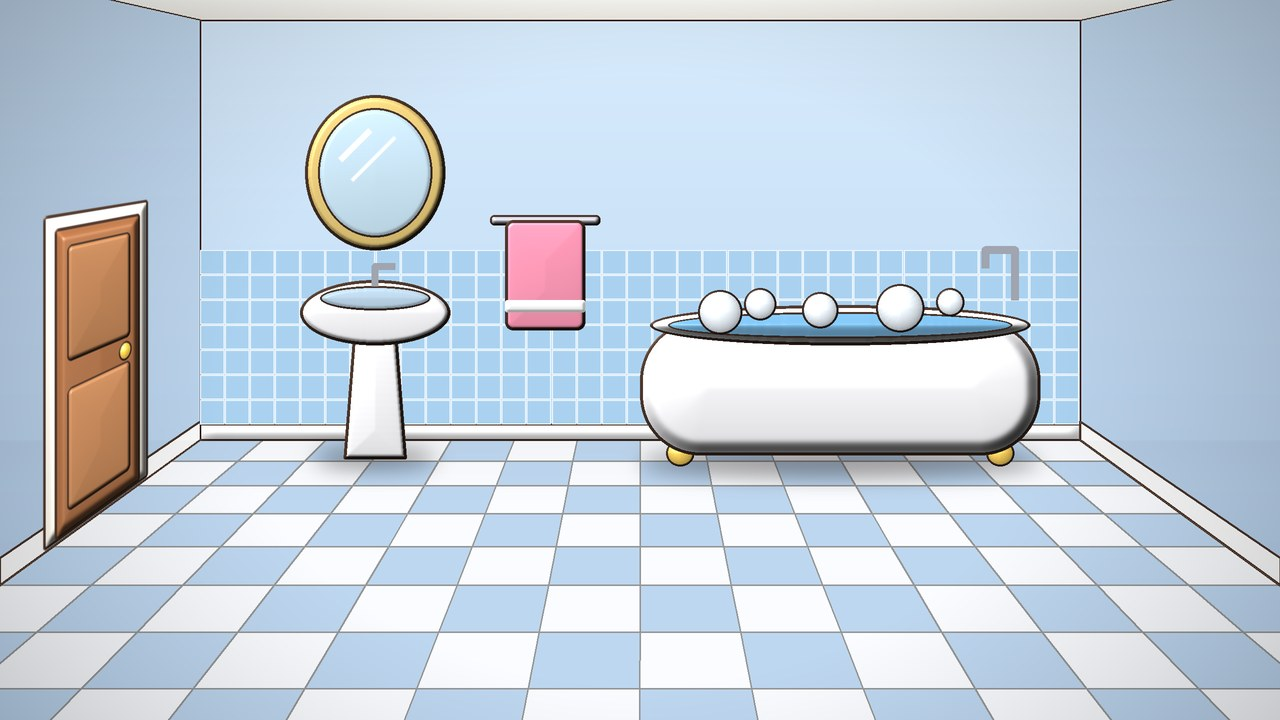
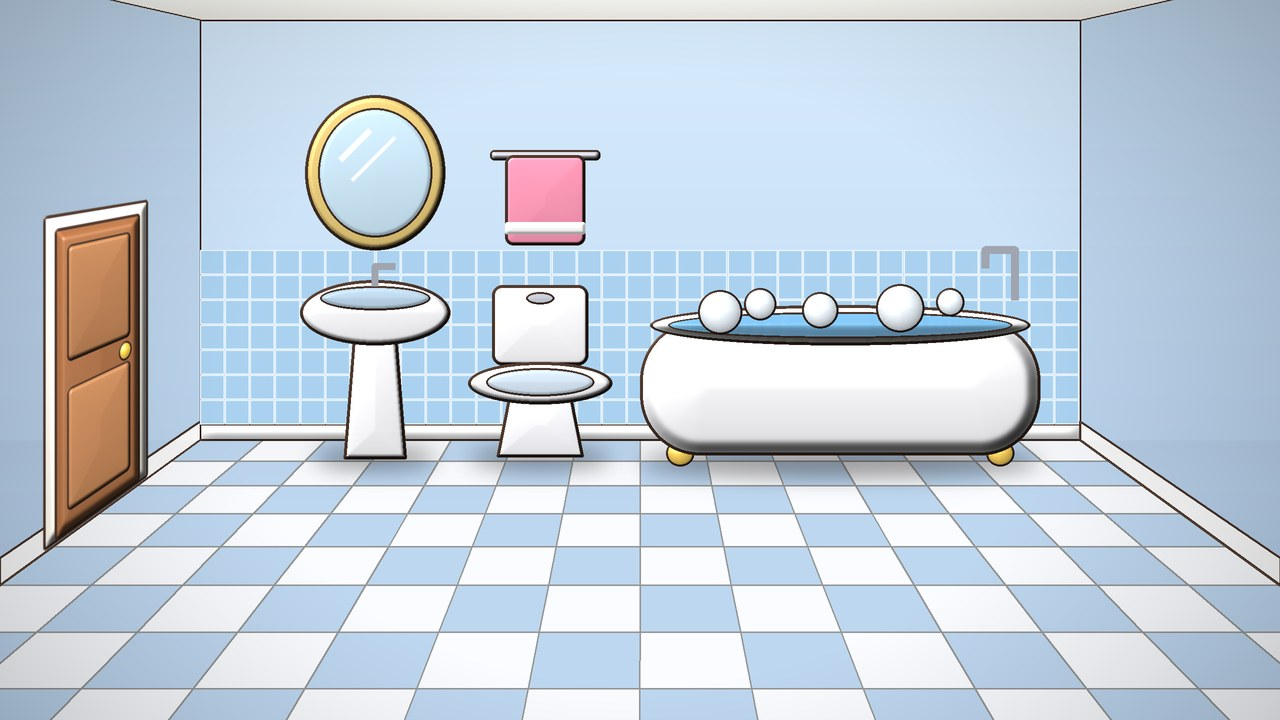
Banyoya klozet: oturunca piksel sansür, kalkınca sifon
Karakter klozete bırakılınca oturur. Beli renkleri değişen piksel karelerle
örtülür. Sürükleyip kaldırınca sifon çekilir; boş klozete dokununca da çekilir.
Havlu askısı klozete yer açmak için yukarı alındı.

Claude-Session: https://claude.ai/code/session_01PHNWoZMbn2UdDSkHwUUY5E

Changed region(s): [[0.3438, 0.1833, 0.5, 0.6722]]

diff --git a/js/oyun.js b/js/oyun.js
@@ -73,6 +73,7 @@ k.scene("mekan", (mekanId) => {
   });
   const kuvetler = noktalar.filter((n) => n.tur === "kuvet");
   const kuvetBul = (p) => kuvetler.find((n) => p.x > n.x && p.x < n.x + n.w && p.y > n.y && p.y < n.y + n.h);
+  const klozetBul = (p) => noktalar.find((n) => n.tur === "klozet" && p.x > n.x && p.x < n.x + n.w && p.y > n.y && p.y < n.y + n.h);
   const dolaplar = noktalar.filter((n) => n.tur === "dolap");
   function dolapAcKapa(n) {
     const ac = n.acik.hidden;
@@ -139,6 +140,13 @@ k.scene("mekan", (mekanId) => {
     else if (!o.kr && kv) o.yuzuyor = kv;
     else delete o.v.kuvet;
   });
+  // Kayıtta klozette oturanı yerine koy.
+  varliklar.forEach((o) => {
+    if (!o.v.klozet) return;
+    const n = noktalar.find((n) => n.tur === "klozet" && !n.dolu);
+    if (o.kr && n) klozeteOtur(o, n, false);
+    else delete o.v.klozet;
+  });
   // Kayıtta elde duran eşyaları sahibine bağla.
   varliklar.forEach((o) => {
     if (!o.v.elde) return;
@@ -186,6 +194,27 @@ k.scene("mekan", (mekanId) => {
     delete o.v.kuvet;
     o.zemY = z.ust; o.v.x = p.x; o.h = Math.max(0, o.zemY - p.y);
   }
+  // --- Klozet ---
+  function klozeteOtur(o, n, kayit = true) {
+    n.dolu = o; o.klozet = n; o.v.klozet = true;
+    o.hedef = null; o.vy = 0; o.zemY = z.ust; o.v.x = n.oturma.x; o.v.y = z.ust;
+    o.sansur = G.sansur();
+    if (kayit) kaydet();
+  }
+  function klozettenKalk(o) {
+    const n = o.klozet, p = o.kok.pos;
+    n.dolu = null; o.klozet = null; delete o.v.klozet;
+    o.sansur.destroy(); o.sansur = null;
+    o.zemY = z.ust; o.v.x = p.x; o.h = Math.max(0, o.zemY - p.y);
+    sifon(n);
+  }
+  // Sifon: klozetin içinde su döner, köpükler çıkar.
+  function sifon(n) {
+    const m = k.vec2(n.oturma.x, 382);
+    for (let i = 0; i < 10; i++) k.wait(i * 0.06, () => G.kopuk(m.x + Math.cos(i) * 30, m.y + Math.sin(i) * 6, -79, k.rand(3, 7)));
+    G.kirinti(m, [120, 180, 240]);
+  }
+
   function suyaBirak(o, kv, p) {
     o.yuzuyor = kv; o.v.kuvet = 0;
     o.v.x = Math.max(kv.x + 50, Math.min(kv.x + kv.w - 50, p.x)); o.zemY = z.ust; o.v.y = z.ust;
@@ -350,6 +379,7 @@ k.scene("mekan", (mekanId) => {
       tutulan.vx = 0;
       if (tutulan.elde) eldenBirak(tutulan);
       if (tutulan.kuvet || tutulan.yuzuyor) kuvettenCik(tutulan);
+      if (tutulan.klozet) klozettenKalk(tutulan);
       if (tutulan.kr) sec(tutulan);
     }
     // Ayak noktası parmağı izler. Zemin bandındaysa derinlik değişir, üstündeyse karakter havaya kalkar.
@@ -373,6 +403,8 @@ k.scene("mekan", (mekanId) => {
       const d = kapiBul(p);
       if (d) return kapidanGec(o, d);
       if (!o.kr && karakteraBirak(o, p)) return;
+      const kl = klozetBul(p);
+      if (kl && o.kr && !kl.dolu) return klozeteOtur(o, kl);
       const kv = kuvetBul(p);
       if (kv && o.kr && kuveteGir(o, kv)) return;
       if (kv && !o.kr) return suyaBirak(o, kv, p);
@@ -401,6 +433,7 @@ k.scene("mekan", (mekanId) => {
     const n = noktaBul(p);
     if (n && n.tur === "musluk") { n.akis.hidden = !n.akis.hidden; return; }
     if (n && n.tur === "dolap") return dolapAcKapa(n);
+    if (n && n.tur === "klozet") return sifon(n);
     const d = kapiBul(p);
     if (d) {
       if (secili) return yuru(secili, k.vec2(d.x + d.w / 2, z.ust + 20), () => kapidanGec(secili, d));
@@ -415,6 +448,7 @@ k.scene("mekan", (mekanId) => {
     for (const o of varliklar) {
       if (o.elde) { eldeGuncelle(o); continue; }
       if (o.kuvet || o.yuzuyor) { kuvetGuncelle(o, t, dt); continue; }
+      if (o.klozet) { klozetGuncelle(o, t); continue; }
       let hal = o === tutulan && surukluyor ? "tutuluyor" : "dur";
       // Düşme
       if (o !== tutulan && (o.h > 0 || o.vy !== 0)) {
@@ -529,6 +563,18 @@ k.scene("mekan", (mekanId) => {
           return { yer: K.elYeri(sahip.kr), aci: 0, olc: 1 - 0.25 * Math.abs(Math.sin(t * 10)) };
       }
       return { yer: K.elYeri(sahip.kr), aci: 0, olc: 1 };
+    }
+    // Klozette oturan karakter biraz basık durur, hafifçe titrer. Beli sansürle örtülür.
+    function klozetGuncelle(o, t) {
+      const s = olcek(o), n = o.klozet, bas = 0.85;
+      o.golge.hidden = true;
+      o.kok.pos = k.vec2(n.oturma.x, n.oturma.y);
+      o.kok.z = -84;
+      o.kok.angle = Math.sin(t * 22) * 1.2;
+      o.kok.scale = k.vec2(s * o.yon, s * bas);
+      K.canlandir(o.kr, t, t < o.salla ? "salla" : "dur");
+      const boyu = o.kr.yukseklik * s * bas, gen = o.kr.genislik * s;
+      o.sansur.ayarla(n.oturma.x, n.oturma.y - boyu * 0.3, gen * 0.6, boyu * 0.24, -83);
     }
     // Küvetteki karakter yavaşça sallanır, çevresinden köpük çıkar. Eşya suyun üstünde yüzer.
     function kuvetGuncelle(o, t, dt) {

diff --git a/js/gecici.js b/js/gecici.js
@@ -167,5 +167,18 @@ window.GECICI = (k) => {
     return o;
   }
 
-  return { mekanlar, kapi, esya, sus, kalp, kirinti, su, kopuk, nota, kagit };
+  // Piksel sansür: renkleri sürekli değişen kareler. ayarla(x, y, en, boy, z) ile yerleşir.
+  function sansur() {
+    const S = 6, Y = 4, o = k.add([k.pos(0, 0), k.scale(1), k.anchor("center"), k.z(0)]);
+    const kareler = [];
+    for (let i = 0; i < S; i++) for (let j = 0; j < Y; j++) kareler.push(o.add([k.rect(10, 10), k.pos(i * 10 - S * 5, j * 10 - Y * 5), k.color(0, 0, 0)]));
+    let sayac = 0;
+    const boya = () => kareler.forEach((c) => { const g = k.rand(0.6, 1); c.color = k.rgb(230 * g, 170 * g, 150 * g); });
+    boya();
+    o.onUpdate(() => { sayac -= k.dt(); if (sayac <= 0) { sayac = 0.12; boya(); } });
+    o.ayarla = (x, y, en, boy, z) => { o.pos = k.vec2(x, y); o.scale = k.vec2(en / (S * 10), boy / (Y * 10)); o.z = z; };
+    return o;
+  }
+
+  return { mekanlar, kapi, esya, sus, kalp, kirinti, su, kopuk, nota, kagit, sansur };
 };

diff --git a/js/veri.js b/js/veri.js
@@ -60,6 +60,7 @@ window.OYUN_VERI = {
   //          raflar: raftaki yiyecekler. Biri alınınca yerine yenisi gelir.
   //   kuvet: karakter bırakılınca içine girer, sadece başı görünür. resim: suyun altında kalan ön yüz.
   //          su: su çizgisi. dip: karakterin ayağının durduğu y. yerler: karakterlerin oturduğu x. Eşyalar suda yüzer.
+  //   klozet: karakter bırakılınca oturur, beli piksel sansürle örtülür. Kalkınca sifon çekilir.
   mekanlar: {
     oda: {
       resim: "cizimler/mekan/oda.jpg",
@@ -98,6 +99,7 @@ window.OYUN_VERI = {
           resim: "cizimler/mekan/kuvet-on.png", x0: 637, y0: 303,
           su: 326, dip: 442, yerler: [{ x: 765 }, { x: 915 }],
         },
+        { tur: "klozet", x: 460, y: 270, w: 160, h: 200, oturma: { x: 540, y: 448 } },
       ],
     },
   },

diff --git a/araclar/uret.py b/araclar/uret.py
@@ -594,9 +594,16 @@ def banyo(ciz):
     t.elips(320, 286, 430, 310, (190, 215, 235, 255), cizgi=2, guc=0.4)
     t.cizgi([(375, 286), (375, 266), (395, 266)], (160, 165, 175, 255), 7)
     # Havlu askısı
-    t.kutu(490, 215, 600, 225, (200, 200, 210, 255), r=4, cizgi=2)
-    t.kutu(505, 220, 585, 330, (250, 150, 180, 255), r=8)
-    t.kutu(505, 300, 585, 312, (255, 255, 255, 255), r=2, cizgi=0, guc=0.5)
+    t.kutu(490, 150, 600, 160, (200, 200, 210, 255), r=4, cizgi=2)
+    t.kutu(505, 155, 585, 245, (250, 150, 180, 255), r=8)
+    t.kutu(505, 222, 585, 234, (255, 255, 255, 255), r=2, cizgi=0, guc=0.5)
+    # Klozet: rezervuar, sifon düğmesi, kapak, oturak ve gövde
+    golge_birak(t, 540, 458, 70, 10)
+    t.kutu(492, 285, 588, 365, (252, 252, 255, 255), r=10)
+    t.elips(526, 292, 554, 304, (200, 205, 215, 255), cizgi=2, guc=0.5)
+    t.cokgen([(510, 395), (570, 395), (582, 456), (498, 456)], (248, 248, 252, 255))
+    t.elips(468, 362, 612, 404, (252, 252, 255, 255))
+    t.elips(486, 368, 594, 396, (215, 230, 245, 255), cizgi=2, guc=0.4)
     # Küvet
     golge_birak(t, 840, 462, 200, 14)
     for x in (680, 1000):
